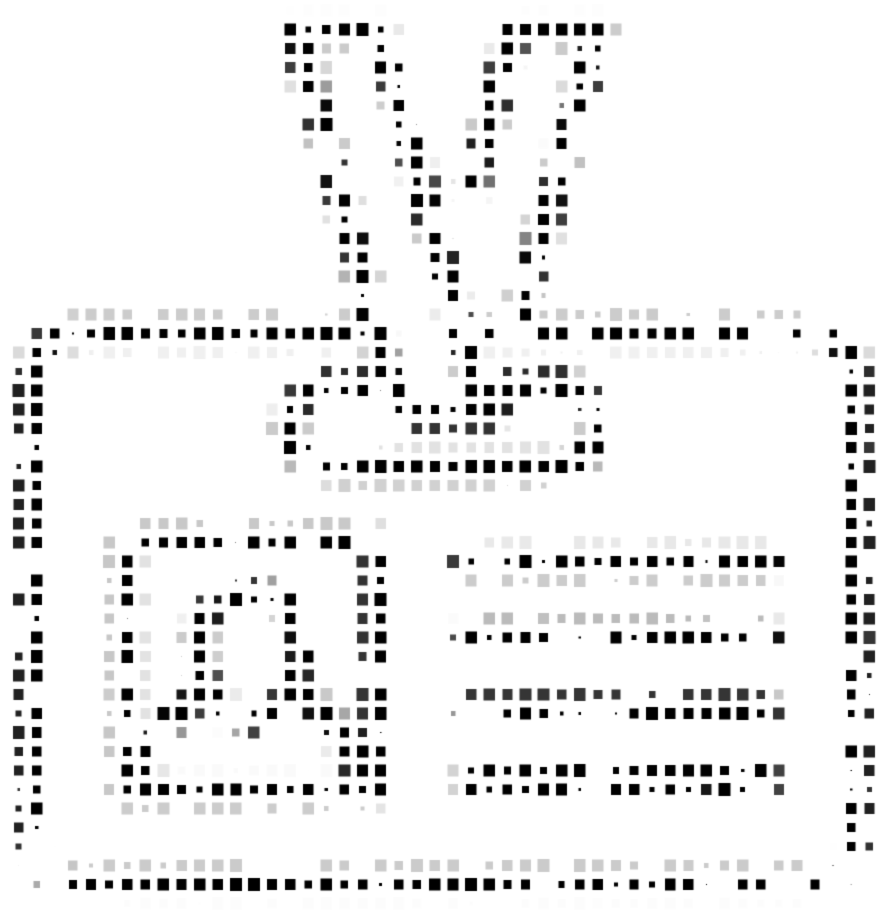
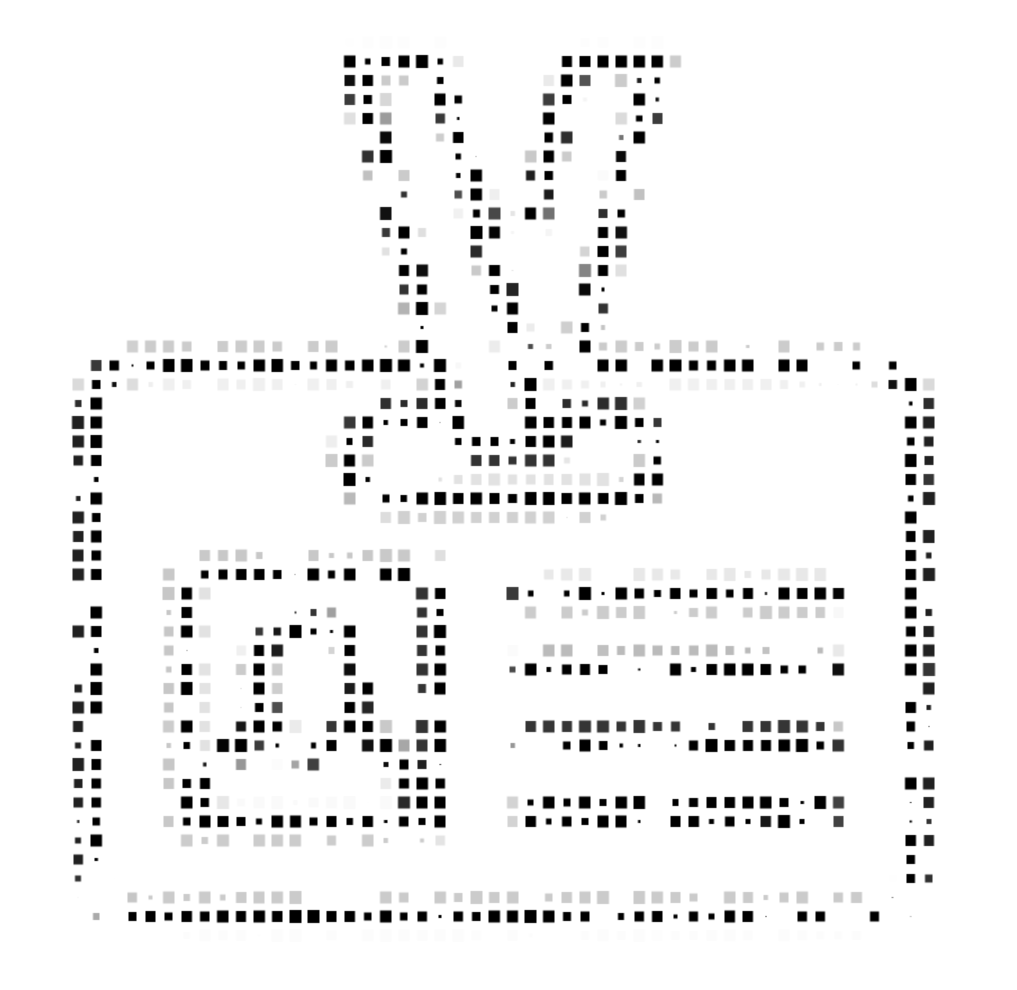
landing

diff --git a/src/pages/HomeView.vue b/src/pages/HomeView.vue
@@ -1,13 +1,23 @@
 <template>
   <main class="h-screen w-screen overflow-hidden bg-black text-white relative select-none flex items-center justify-center">
-    <GridHover />
+    <div aria-hidden="true" class="pointer-events-none absolute inset-0 z-0 opacity-40">
+      <PixelBlast
+        className="h-full w-full"
+        color="#B19EEF"
+        :pixelSize="4"
+        :patternScale="2"
+        :patternDensity="0.8"
+        :speed="0.35"
+        :edgeFade="0.1"
+      />
+    </div>
 
     <!-- Container principale -->
     <div class="relative w-full h-full flex items-center justify-center z-10 pointer-events-none px-4">
       
       <!-- Badge pixelato in alto a sinistra -->
-      <div ref="pixelBadge" class="absolute left-[20%] md:left-[27%] top-[22%] md:top-[15%] pointer-events-auto cursor-default z-20 w-[14vw] md:w-[15vw] max-w-lg invert ">
-        <img src="/assets/home/pixel-badge.png" class="w-full h-auto object-contain hover:bg-white -rotate-6 animate-pulse" alt="Pixel Badge" draggable="false" />
+      <div ref="pixelBadge" class="absolute left-[20%] md:left-[27%] top-[22%] md:top-[15%] pointer-events-auto cursor-default z-20 w-[14vw] md:w-[18vw] max-w-lg invert ">
+        <img src="/assets/home/pixel-badge.png" class="w-full h-auto object-contain -rotate-6 animate-pulse" alt="Pixel Badge" draggable="false" />
       </div>
 
       <!-- Immagine Camera (destra) -->
@@ -36,7 +46,7 @@
 <script setup>
 import { ref, onMounted, onUnmounted } from 'vue'
 import gsap from 'gsap'
-import GridHover from '../components/GridHover.vue'
+import PixelBlast from '../components/PixelBlast.vue'
 import StorySection from '../components/StorySection.vue'
 
 const rightImg = ref(null)

diff --git a/src/components/StorySection.vue b/src/components/StorySection.vue
@@ -17,7 +17,7 @@
       </div>
 
       <div class="relative z-10 mx-auto flex min-h-[calc(100vh-8rem)] w-full max-w-[1600px] flex-col">
-        <h2 class="story-title mt-[8vh] text-center font-display text-[12vw] font-light leading-[0.9] tracking-[-0.065em] md:mt-[5vh] md:text-[8.5vw]">
+        <h2 class="story-title mt-[8vh] text-center font-display text-[12vw] font-light leading-[0.9] tracking-[-0.05em] md:mt-[5vh] md:text-[8.5vw]">
           Chi è Sofia?
         </h2>
 
@@ -28,7 +28,7 @@
               :key="word.label"
               :ref="setWordRef"
               type="button"
-              class="keyword-chip relative font-display font-light leading-none tracking-[-0.055em] text-white"
+              class="keyword-chip relative font-display font-light leading-none tracking-[-0.05em] text-white"
               :class="[
                 word.size,
                 { 'is-dimmed': activeCategory && activeCategory !== group.id },

diff --git a/src/components/Intro.vue b/src/components/Intro.vue
@@ -1,7 +1,5 @@
 <template>
   <div ref="introRef" class="fixed inset-0 z-999 bg-black text-white flex items-center justify-center px-6">
-    <GridHover />
-
     <div class="relative z-10 w-full max-w-2xl px-4 text-center">
       <h1 
         ref="textRef"
@@ -18,7 +16,6 @@
 import { ref, onMounted } from 'vue'
 import gsap from 'gsap'
 import { ScrambleTextPlugin } from 'gsap/ScrambleTextPlugin'
-import GridHover from './GridHover.vue'
 
 gsap.registerPlugin(ScrambleTextPlugin)
 
